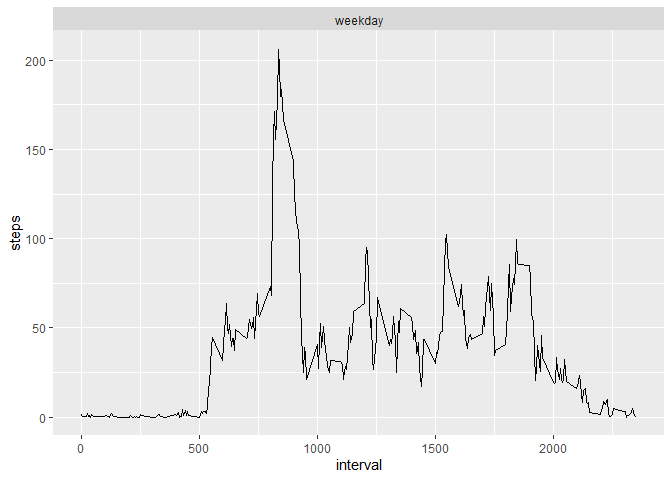
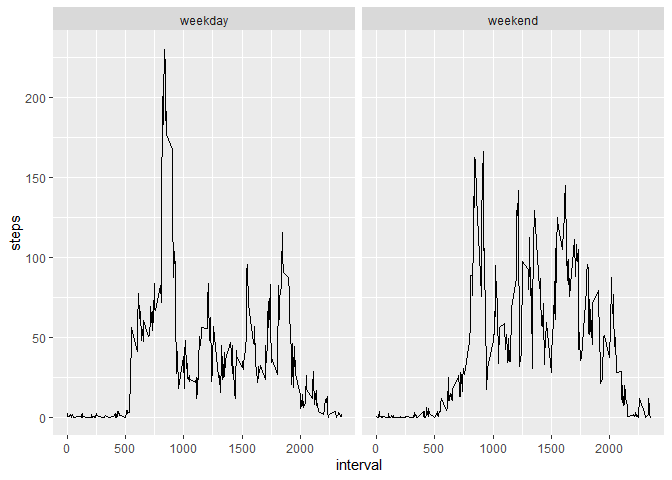
Versión final de mi proyecto

diff --git a/PA1_template.html b/PA1_template.html
@@ -526,12 +526,12 @@ total_steps_imputed &lt;- aggregate(steps ~ date, activity_imputed, sum)</code><
 <p>Create a new factor variable in the dataset with two levels – “weekday” and “weekend” indicating whether a given date is a weekday or weekend day. 1. Convert date into weekdays 2. Now categorized days into weekend and weekdays 3. Take mean steps taken on weekend or weekday in the intervals 4. Create panel plot between average steps and interval separated by day type</p>
 <pre class="r"><code>activity_imputed$days=tolower(weekdays(activity_imputed$date))</code></pre>
 <pre><code>## Warning in as.POSIXlt.POSIXct(x, tz): unknown timezone &#39;%Y-%m-%d&#39;</code></pre>
-<pre class="r"><code>activity_imputed$day_type&lt;-ifelse(activity_imputed$days==&quot;saturday&quot;|activity_imputed$days==&quot;sunday&quot;,&quot;weekend&quot;,&quot;weekday&quot;)
+<pre class="r"><code>activity_imputed$day_type&lt;-ifelse(activity_imputed$days==&quot;sábado&quot;|activity_imputed$days==&quot;domingo&quot;,&quot;weekend&quot;,&quot;weekday&quot;)
 avg_steps&lt;-aggregate(activity_imputed$steps,by=list(activity_imputed$interval,activity_imputed$day_type),FUN=mean,na.rm=TRUE)
 colnames(avg_steps)&lt;-c(&quot;interval&quot;,&quot;day_type&quot;,&quot;steps&quot;)</code></pre>
 <p>Make a panel plot containing a time series plot (i.e. type = “l”) of the 5-minute interval (x-axis) and the average number of steps taken, averaged across all weekday days or weekend days (y-axis). See the README file in the GitHub repository to see an example of what this plot should look like using simulated data.</p>
 <pre class="r"><code>ggplot(aes(x=interval,y=steps),data=avg_steps)+geom_line()+facet_wrap(~avg_steps$day_type)</code></pre>
[2 lines of base64/hex data omitted]
 </div>
 
 

diff --git a/PA1_template.md b/PA1_template.md
@@ -7,6 +7,7 @@ output:
 
 ## Loading and preprocessing the data
 
+
 ```r
 library(ggplot2)
 
@@ -248,7 +249,7 @@ activity_imputed$days=tolower(weekdays(activity_imputed$date))
 ```
 
 ```r
-activity_imputed$day_type<-ifelse(activity_imputed$days=="saturday"|activity_imputed$days=="sunday","weekend","weekday")
+activity_imputed$day_type<-ifelse(activity_imputed$days=="sábado"|activity_imputed$days=="domingo","weekend","weekday")
 avg_steps<-aggregate(activity_imputed$steps,by=list(activity_imputed$interval,activity_imputed$day_type),FUN=mean,na.rm=TRUE)
 colnames(avg_steps)<-c("interval","day_type","steps")
 ```
